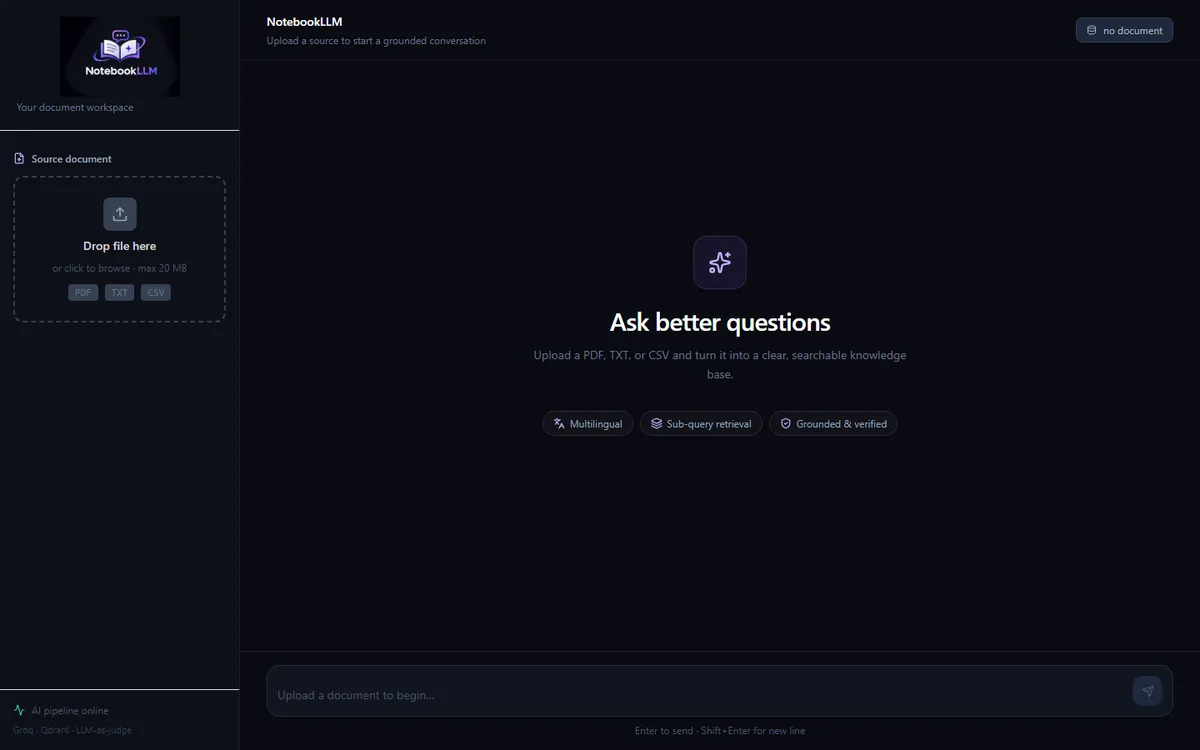
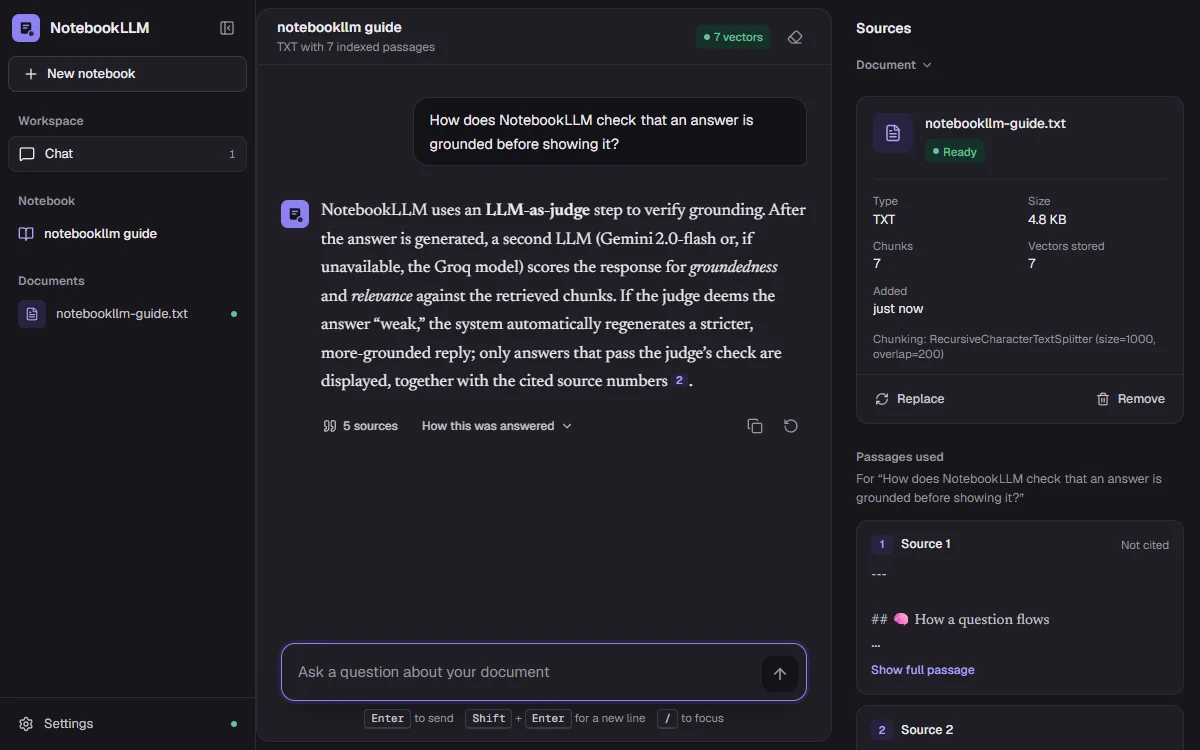
Update NotebookLLM case study for the redesign
New screenshot of the redesigned workspace answering with citations, two
new bullets (citation-first workspace, safe document swaps), an accurate
'up to 4' sub-query count, and the upload pipeline's swap step.

diff --git a/src/data/projects.js b/src/data/projects.js
@@ -63,18 +63,22 @@ export const projects = [
       'A single vector search misses multi-part questions, and a chatbot that answers confidently from weak context is worse than no answer.',
     built: [
       'Ingests PDF, TXT and CSV up to 20 MB with two strategies: 1,000/200-character splits and 10-row CSV batches, stored as 384-dim vectors.',
-      'A 5-stage query pipeline rewrites the question, decomposes it into 4 sub-queries, searches top-4 for each and merges 16 candidates down to 6 chunks.',
+      'A 5-stage query pipeline rewrites the question, decomposes it into up to 4 sub-queries, searches top-4 for each and merges up to 16 candidates down to 6 chunks.',
       'An LLM-as-judge scores groundedness and relevance from 1 to 5 and regenerates any answer scoring 2 or lower.',
-      'Exposes the whole trace in the UI: rewritten query, sub-queries, verdict and the exact chunks used.',
+      'A citation-first workspace: numbered citation chips open the exact passage in a sources panel, and every answer exposes its rewritten query, sub-queries and judge verdict. Light, dark and system themes.',
+      'Swaps in a new document only after all its embeddings succeed, so a failed or timed-out upload never empties the index; scanned PDFs get an OCR hint instead of a generic error.',
     ],
     figures: [
-      { value: '4', label: 'sub-queries per question' },
+      { value: '4', label: 'max sub-queries per question' },
       { value: '16 → 6', label: 'candidates merged into context' },
       { value: '≤ 2', label: 'judge score that forces a rewrite' },
     ],
-    stack: ['React', 'Node.js', 'Express', 'LangChain', 'Qdrant', 'Hugging Face embeddings', 'Groq', 'Gemini'],
+    stack: ['React', 'Tailwind CSS', 'Node.js', 'Express', 'LangChain', 'Qdrant', 'Hugging Face embeddings', 'Groq', 'Gemini'],
     links: { live: 'https://notebook-llm-sigma.vercel.app', source: 'https://github.com/aryen1101/Notebook_LLM' },
-    shot: { src: notebookShot, alt: 'NotebookLLM workspace with document upload panel' },
+    shot: {
+      src: notebookShot,
+      alt: 'NotebookLLM workspace answering a question with a citation, next to a sources panel listing the passages used',
+    },
     pipeline: [
       {
         label: 'On upload',
@@ -82,7 +86,7 @@ export const projects = [
           { title: 'PDF, TXT or CSV', note: 'up to 20 MB' },
           { title: 'Chunk', note: '1,000 / 200 splits · 10-row CSV batches' },
           { title: 'Embed', note: 'bge-small, 384 dimensions' },
-          { title: 'Store in Qdrant' },
+          { title: 'Swap into Qdrant', note: 'old document kept until embedding succeeds' },
         ],
       },
       {
